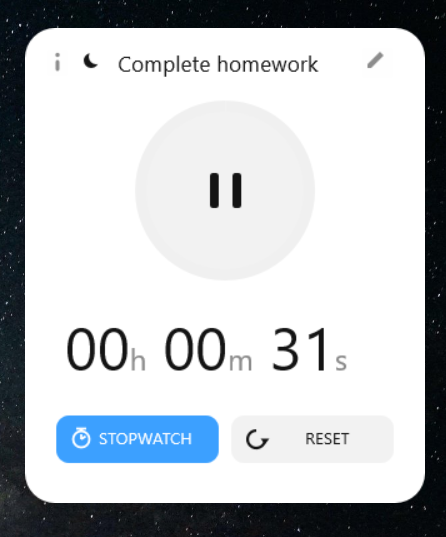
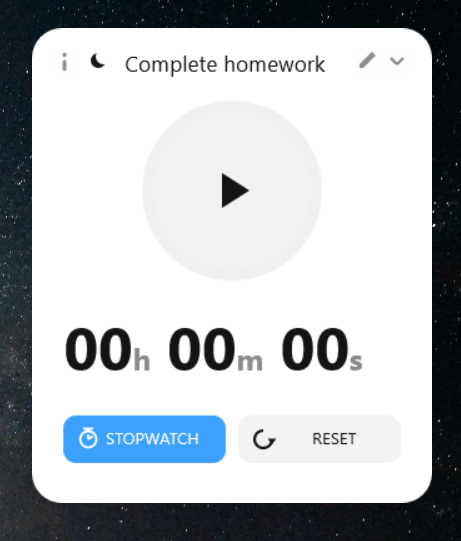
Update README with all preview images and add collapse & Always On Top features

diff --git a/README.md b/README.md
@@ -1,6 +1,6 @@
 # Modern Timer Widget for Rainmeter
 
-A sleek, minimal, and highly customizable Countdown Timer & Stopwatch desktop widget for **Rainmeter**, featuring modern typography, dynamic theme switching, and interactive task management.
+A sleek, minimal, and highly customizable Countdown Timer & Stopwatch desktop widget for **Rainmeter**, featuring modern typography, dynamic theme switching, compact mini mode, and interactive task management.
 
 Created with ❤ by **Prabhat Dutt**.
 
@@ -8,24 +8,41 @@ Created with ❤ by **Prabhat Dutt**.
 
 ## 📷 Previews
 
+### 🎨 Dark & Light Themes
 <div align="center">
-  <h3>Dark Mode</h3>
-  <img src="assets/widget-dark.png" alt="Dark Mode Preview" width="520" />
+  <img src="assets/widget-dark.png" alt="Dark Mode Preview" width="48%" />
+  <img src="assets/widget-white.png" alt="Light Mode Preview" width="48%" />
 </div>
 
 <br />
 
+### 🔹 Compact Mini Collapsed View
 <div align="center">
-  <h3>Light Mode</h3>
-  <img src="assets/widget-white.png" alt="Light Mode Preview" width="520" />
+  <img src="assets/Mini-view-dark.png" alt="Mini View Dark Mode" width="44%" />
+  <img src="assets/Mini-view-white.png" alt="Mini View Light Mode" width="44%" />
 </div>
 
 <br />
 
+### ⏱ Timer & Stopwatch Modes
 <div align="center">
-  <h3>Timer & Stopwatch Modes</h3>
   <img src="assets/Timer-mode.png" alt="Timer Mode Preview" width="44%" />
-  <img src="assets/stopwatch-mode.png" alt="Stopwatch Mode Preview" width="44%" />
+  <img src="assets/Stopwatch-mode.png" alt="Stopwatch Mode Preview" width="44%" />
+</div>
+
+<br />
+
+### ✏ Interactive Inline Editing
+<div align="center">
+  <img src="assets/Editable.png" alt="Inline Title & Duration Editing" width="60%" />
+</div>
+
+<br />
+
+### 📌 Info Overlay & Always-On-Top Setting
+<div align="center">
+  <img src="assets/Always%20on%20top.png" alt="Info Panel Standard" width="44%" />
+  <img src="assets/Always%20on%20top%20enabled.png" alt="Info Panel Always On Top Active" width="44%" />
 </div>
 
 ---
@@ -34,11 +51,13 @@ Created with ❤ by **Prabhat Dutt**.
 
 - **⏱ Dual Mode Support**: Switch seamlessly between **Countdown Timer** and **Stopwatch** modes.
 - **🎨 Dark & Light Modes**: One-click theme toggle to complement any desktop aesthetic.
+- **🔹 Compact Mini Mode**: One-click collapse to a sleek, low-profile status bar with centered digits and theme controls.
+- **📌 Always On Top Toggle**: Built-in interactive toggle in the Info panel to float the widget above all open windows and browser tabs.
 - **✏ Interactive Editing**:
   - Click to edit the **Task Title**.
   - Click to customize **Timer Duration** (`HH:MM:SS`, `MM:SS`, or `SS` formats supported).
 - **⭕ Circular Progress Ring**: Smooth visual timer ring showing real-time countdown progress.
-- **ℹ Author Info Overlay**: Quick access info panel with version info and project links.
+- **ℹ Author Info Overlay**: Quick access info panel with version info, project links, and settings.
 - **🅰 Modern Typography**: Clean, high-readability fonts powered by `Bahnschrift` and `Segoe UI Variable`.
 
 ---
@@ -60,9 +79,10 @@ Created with ❤ by **Prabhat Dutt**.
 
 - **Play / Pause**: Click the center circle button.
 - **Timer / Stopwatch Switch**: Click the mode icon in the bottom bar.
+- **Collapse / Expand Mini View**: Click the chevron icon (`v` / `^`) at the top right.
 - **Edit Duration**: Click the pencil icon next to the time display, enter your desired time, and press `Enter` to save.
 - **Edit Title**: Click the pencil icon next to the title, type your task name, and press `Enter`.
-- **Toggle Info View**: Click the `i` icon in the top left corner.
+- **Toggle Info View & Always-On-Top**: Click the `i` icon at the top left corner, then toggle the "Always On Top" checkbox.
 
 ---
 
